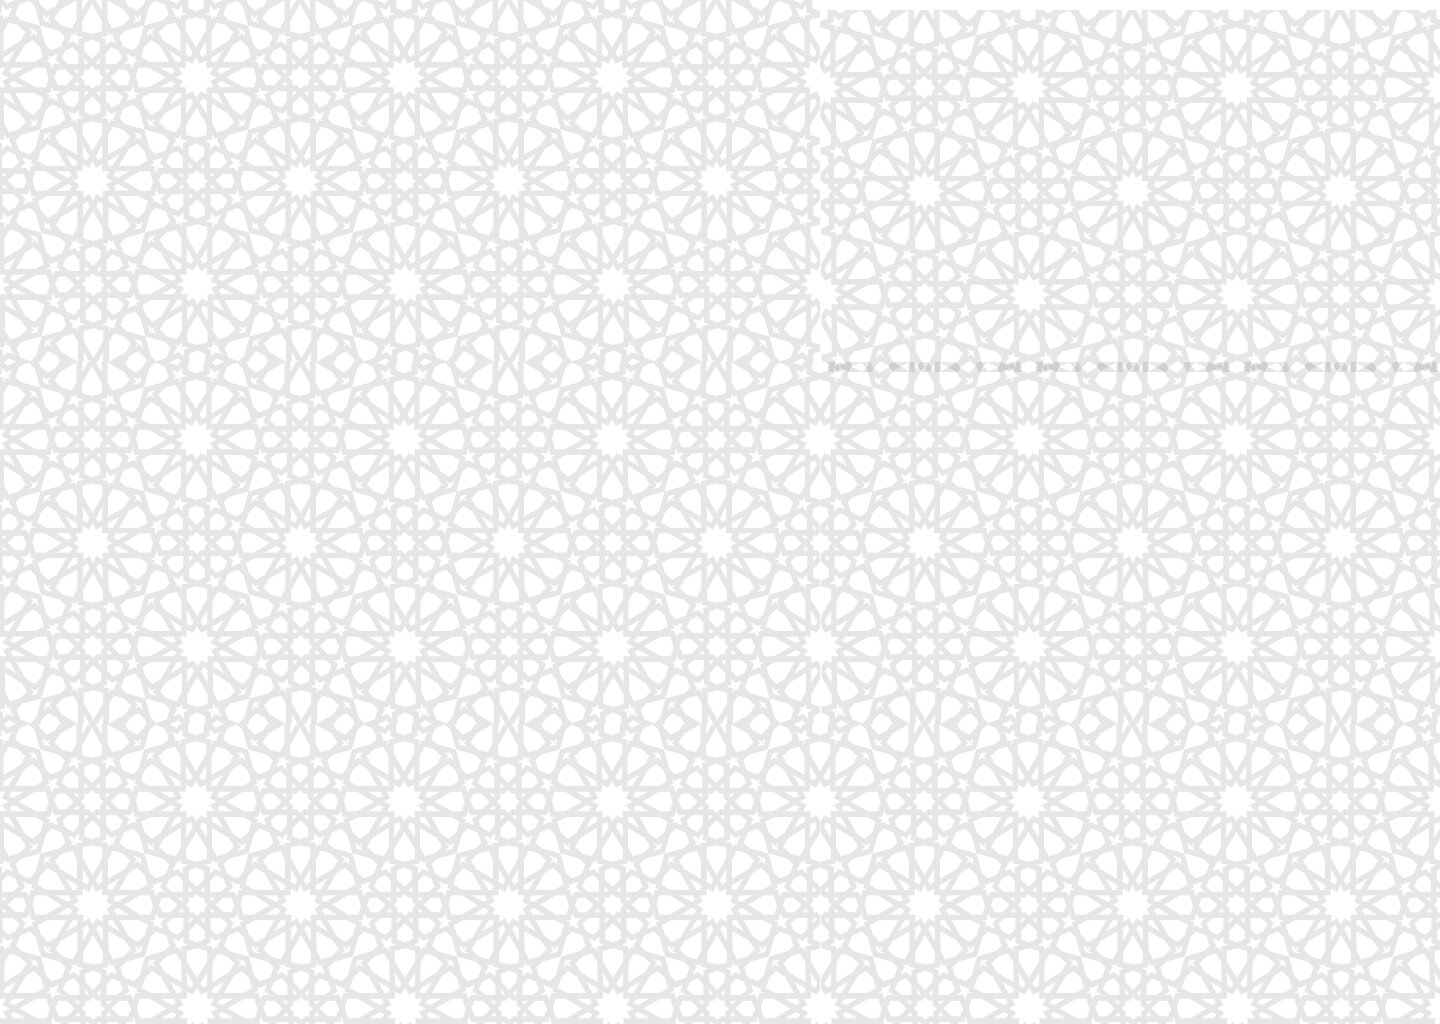
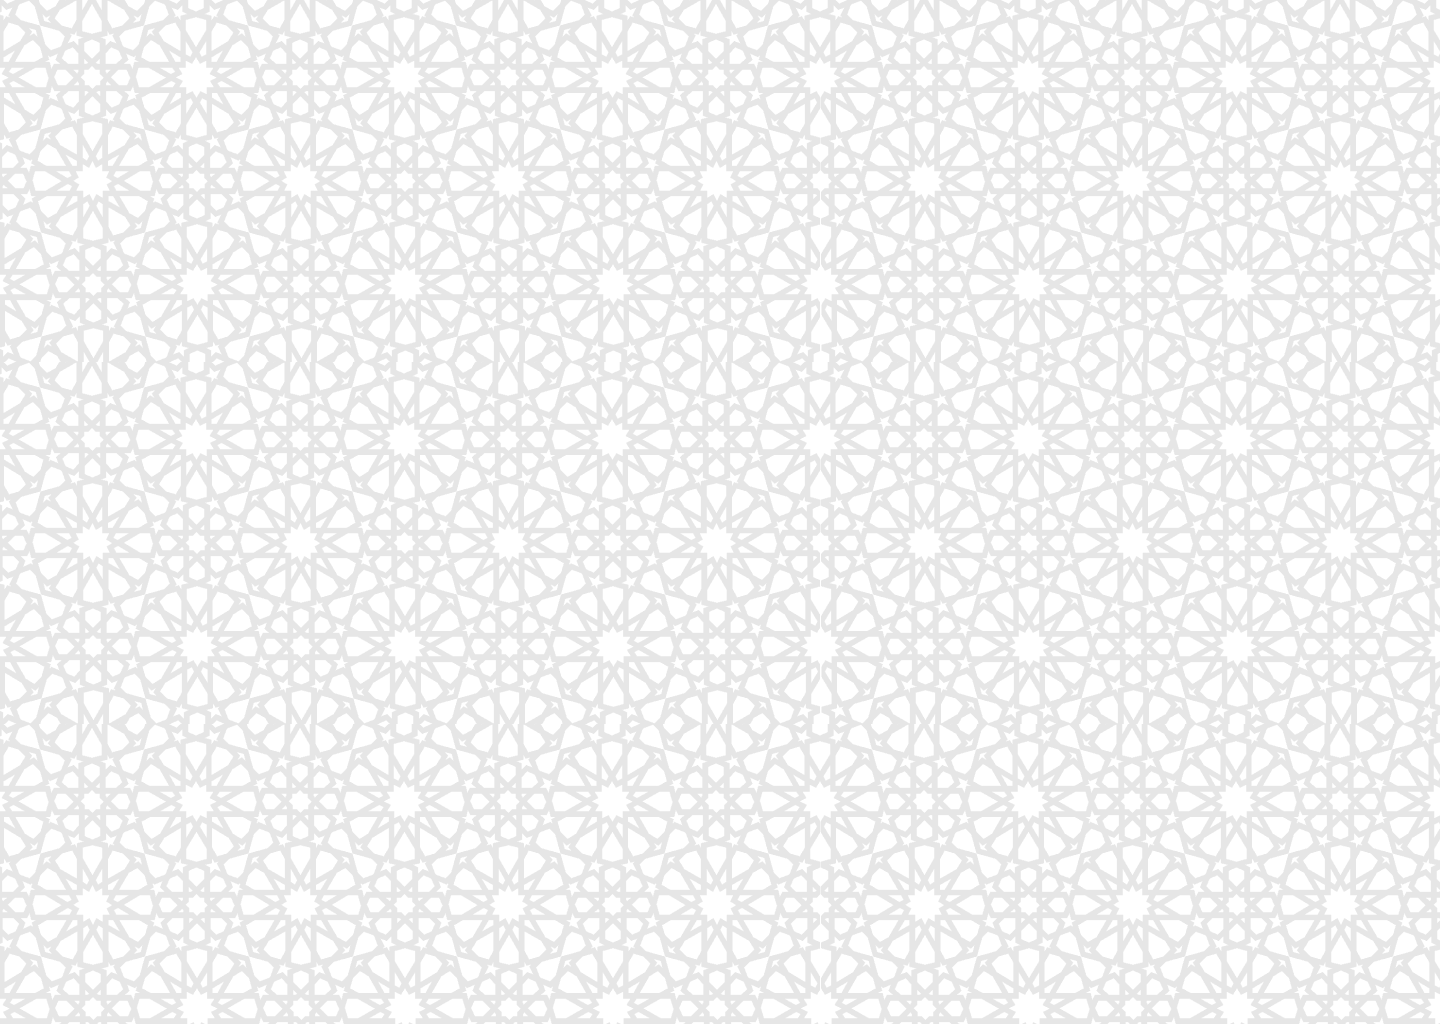
basic design for portal started

Changed region(s): [[0.5625, 0.0, 1.0, 0.375]]

diff --git a/client/public/pages/portal.css b/client/public/pages/portal.css
@@ -1,0 +1,89 @@
+@import url('https://fonts.googleapis.com/css2?family=Ubuntu:wght@300;400&display=swap');
+*{
+    font-family: 'Ubuntu', sans-serif;
+}
+body{
+    margin: 0;
+    background-image: url('../Islamicgeo.png');
+    background-size: 50%;
+}
+ul.navList{
+    list-style: none;
+    overflow: hidden;
+    background-color: #0D3962;
+    margin: 0;
+    padding: 5px;
+    opacity: 75%;
+    height: 90px;
+    margin-bottom: 50px;
+}
+ul.navList li{
+    display: inline;
+    float: left;
+    text-align: center;
+    margin: 0;
+}
+.navItem{
+    display: block;
+    text-align: center;
+    padding: 14px 16px;
+    text-decoration: none;
+    margin: 0;
+}
+
+.navItem:hover:not(.active) {
+    color: rgb(132, 132, 132);
+  }
+
+div.logo{
+    background-color: #D9D9D9;
+    border-radius: 100%;
+    width: 50px;
+    height: 50px;
+    background-image: url("../madrasalogo.png");
+    display: block;
+    background-position:50% 50%;
+    background-repeat:no-repeat;    
+    background-size: 200%;
+    transition: ease all .5s;
+    margin-right: 30px;
+}
+
+/* Style the tab */
+.tab {
+    overflow: hidden;
+    /* border: 1px solid #ccc; */
+    /* background-color: #f1f1f1; */
+    margin-left: 60px;
+  }
+  
+  /* Style the buttons inside the tab */
+  .tab button {
+    background-color: #EBEBEB;
+    float: left;
+    border: none;
+    outline: none;
+    cursor: pointer;
+    padding: 14px 16px;
+    transition: 0.3s;
+    font-size: 17px;
+  }
+  
+  /* Change background color of buttons on hover */
+  .tab button:hover {
+    background-color: rgb(229, 229, 229);
+  }
+  
+  /* Create an active/current tablink class */
+  .tab button.active {
+    background-color: #D9D9D9;
+  }
+  
+  /* Style the tab content */
+  .tabcontent {
+    display: block;
+    padding: 6px 12px;
+    background-color: #D9D9D9;
+    border-top: none;
+    margin: 0px 20px;
+  }

diff --git a/client/public/script/loadTabs.js b/client/public/script/loadTabs.js
@@ -1,0 +1,53 @@
+// Permissions will be retrived from db
+// Permissions will be as follows
+    // Class teacher: class attendance tab for their class
+        // class attendace and class history for their current class
+    // Teacehr: 
+        // Schedule Absence only
+    // Attendance: class attendance for assigned class/s
+        // class attendace for assigned class/s
+    // Office Staff: 
+        // Student lookup for all students, Read only
+        // Class history for all classes
+    // Head Moalim: 
+        // All pages, R / W permissions
+    // Admin:
+        // All pages, R / W permissions
+const permissions = {
+    teacher:{
+        classAttendace:false,
+        studentLookup:false,
+        scheduleAbsence:true,
+        classHistory:false
+    },
+    classTeacher:{
+        classAttendace:true,
+        studentLookup:true,
+        scheduleAbsence:true,
+        classHistory:true
+    },
+    attendanceTeacher:{
+        classAttendace:true,
+        studentLookup:false,
+        scheduleAbsence:true,
+        classHistory:false
+    },
+    officeStaff:{
+        classAttendace:true,
+        studentLookup:true,
+        scheduleAbsence:true,
+        classHistory:true
+    },
+    headMoalim:{
+        classAttendace:true,
+        studentLookup:true,
+        scheduleAbsence:true,
+        classHistory:true
+    },
+    Admin:{
+        classAttendace:true,
+        studentLookup:true,
+        scheduleAbsence:true,
+        classHistory:true
+    }
+}

diff --git a/client/public/pages/portal.html b/client/public/pages/portal.html
@@ -1,12 +1,32 @@
 <!DOCTYPE html>
 <html lang="en">
+
 <head>
     <meta charset="UTF-8">
     <meta http-equiv="X-UA-Compatible" content="IE=edge">
     <meta name="viewport" content="width=device-width, initial-scale=1.0">
+    <link rel="stylesheet" href="portal.css">
     <title>Staff Portal</title>
 </head>
-<body>
-    
+
+    <!-- <div class="nav" id="navbar"> -->
+        <ul class="navList">
+            <li><div class="logo navItem"></div></li>
+            <li><h2 class="navItem" style="margin-top: 10px" >MBNJ</h2></li>
+            <li style="float: right;"><h2 class="navItem" id="userName">Moiz <br/>Sabir</h2></li>
+        </ul>
+
+        <div class="tab">
+            <button class="tablinks active" onclick="">Class <br/>Attendance</button>
+            <button class="tablinks" onclick="">Student <br/>Lookup</button>
+            <button class="tablinks" onclick="">Schedule <br/>Absence</button>
+        </div>
+          
+        <div id="London" class="tabcontent">
+            <h3>London</h3>
+            <p>London is the capital city of England.</p>
+        </div>
+          
 </body>
+
 </html>

diff --git a/client/public/script/checkLogin.js b/client/public/script/checkLogin.js
@@ -1,6 +1,10 @@
 let token = sessionStorage.getItem('login_token')
 if(!token){
-    document.location.href = './pages/login.html'
+    // Testing purpouses, remove codde once done
+    sessionStorage.setItem('login_token', 3902423343)
+    document.location.href='./pages/portal.html'
+    // uncomment code once done working on portal page
+    // document.location.href = './pages/login.html'
 }else{
     document.location.href = './pages/portal.html'
 }
